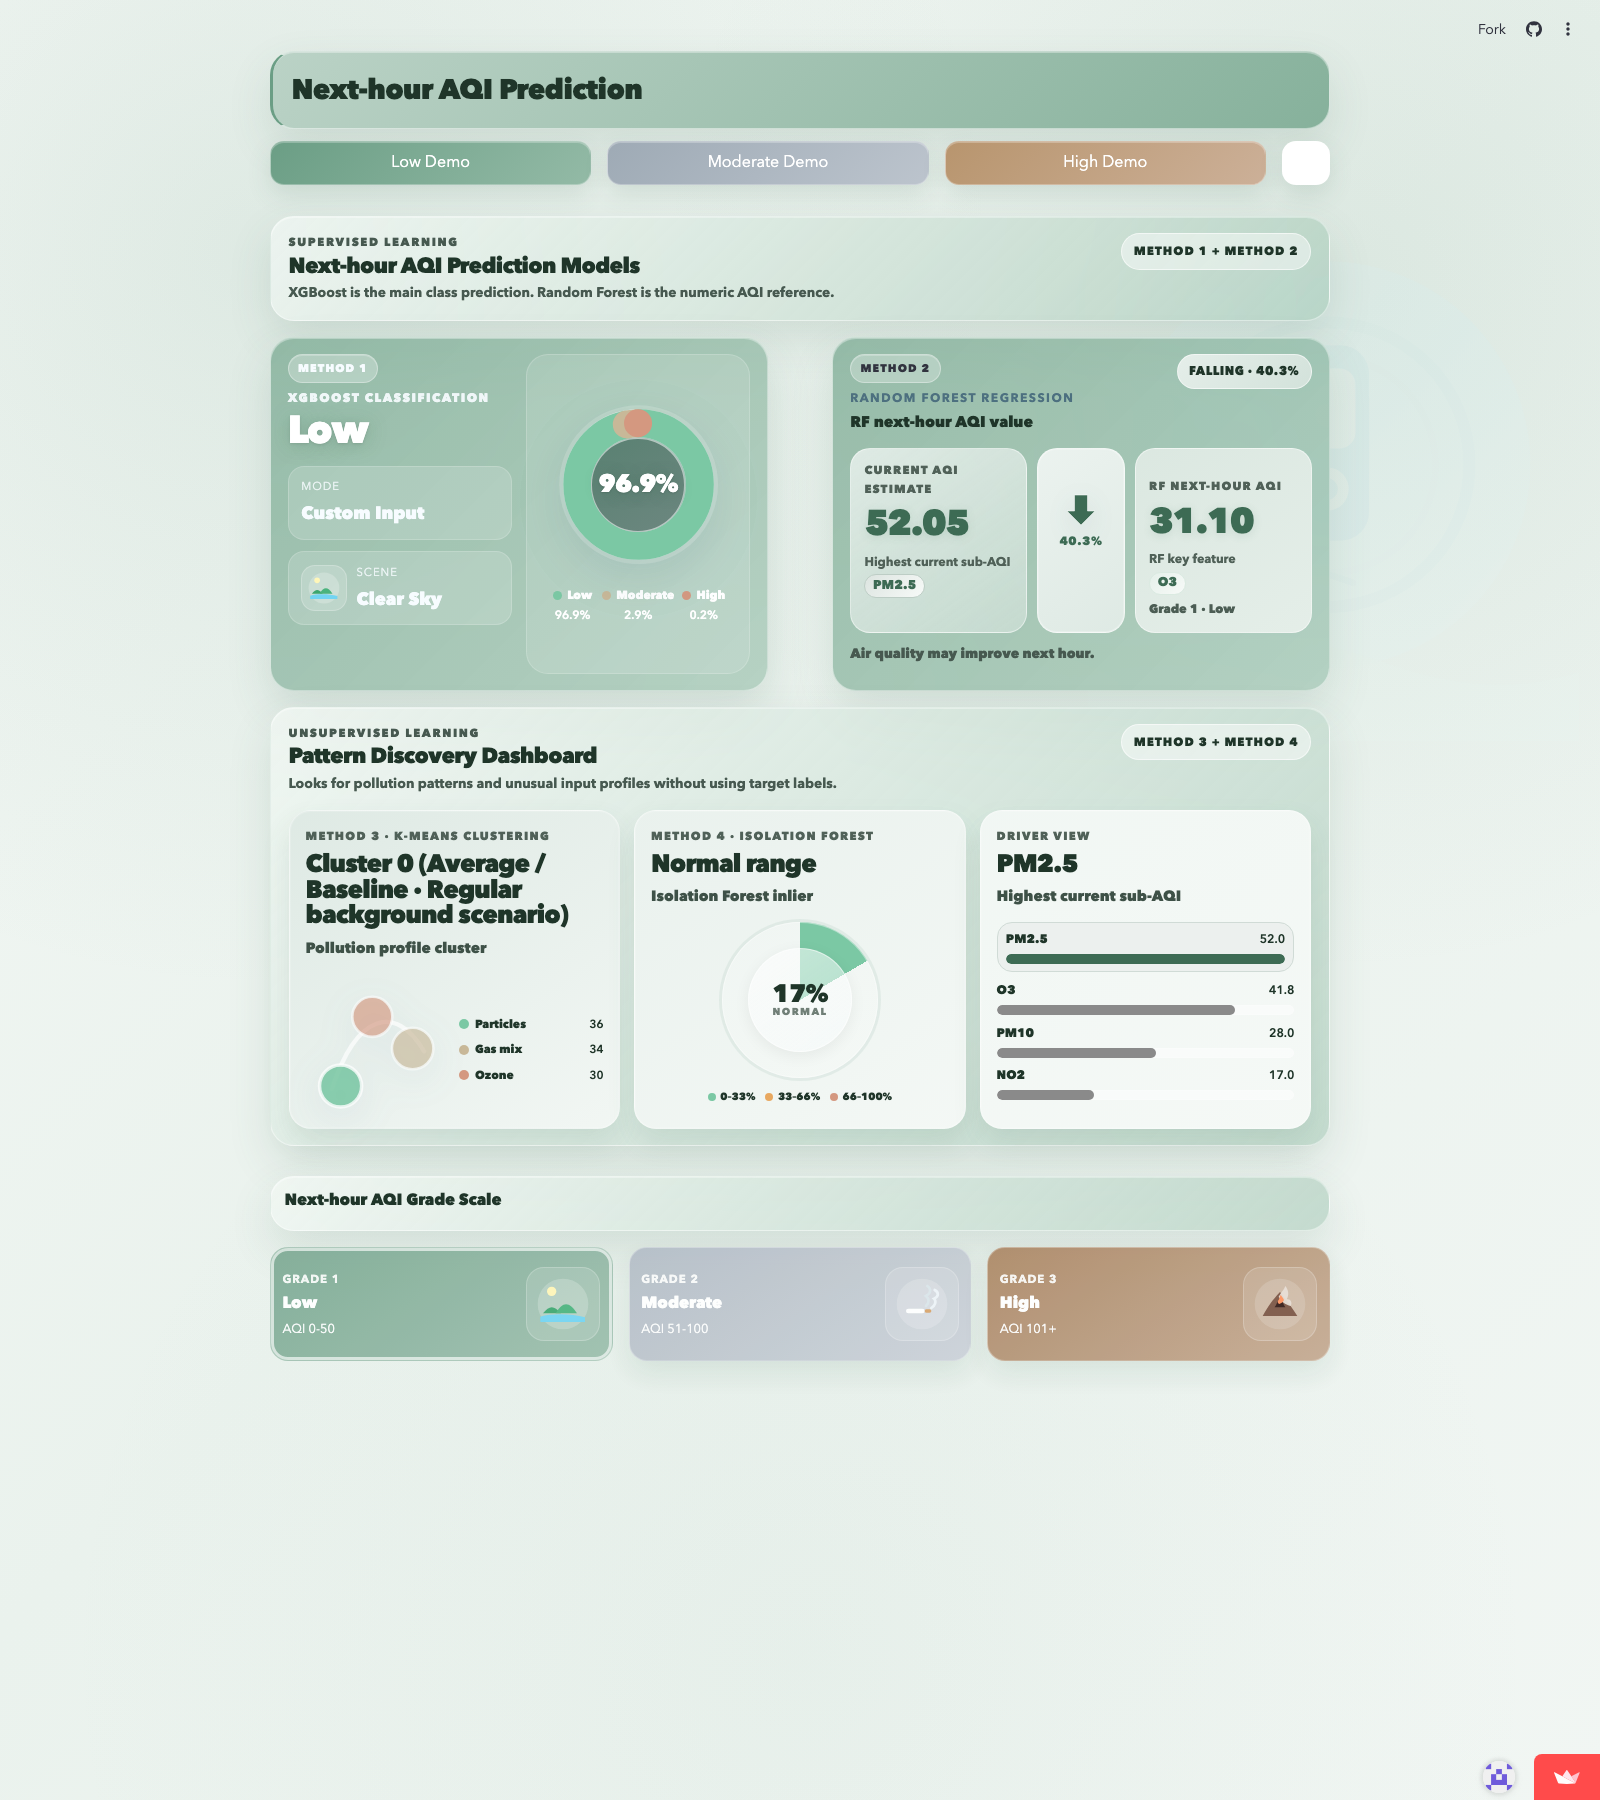
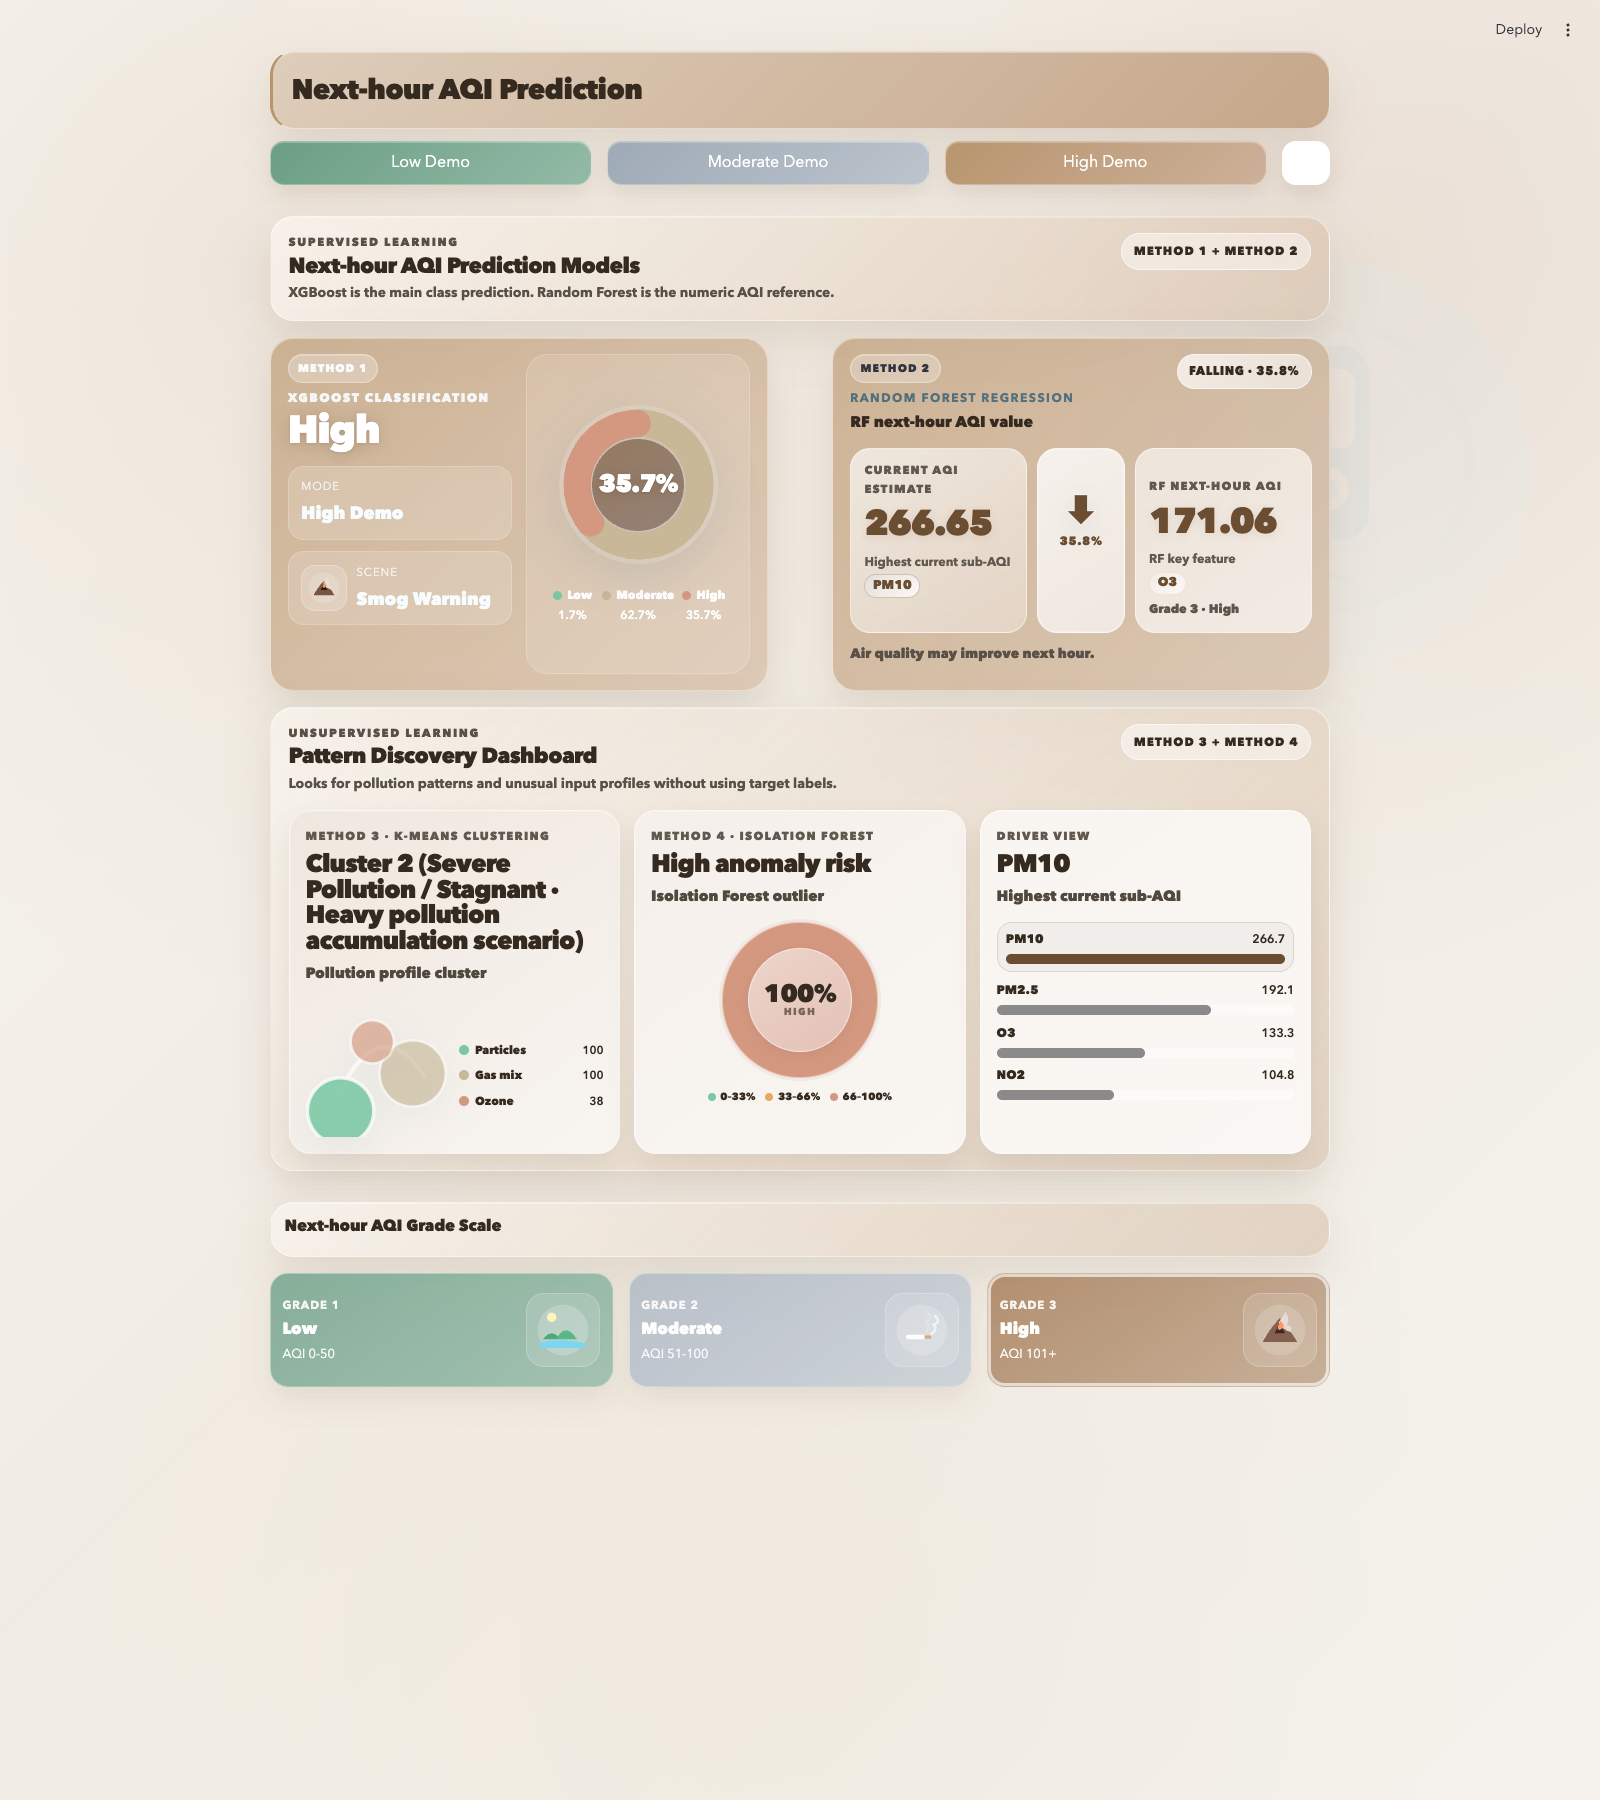
Make PM10 the dominant demo pollutant

diff --git a/streamlit_app.py b/streamlit_app.py
@@ -69,11 +69,11 @@ DEFAULT_VALUES = {
 
 LOW_DEMO_VALUES = {
     "PM2.5": 6.00,
-    "PM10": 18.00,
+    "PM10": 28.00,
     "CO": 0.20,
     "NO2": 8.00,
     "SO2": 2.00,
-    "O3": 28.00,
+    "O3": 18.00,
     "pressure": 1018.00,
     "humidity": 42.00,
     "temperature": 24.00,
@@ -83,11 +83,11 @@ LOW_DEMO_VALUES = {
 
 MODERATE_DEMO_VALUES = {
     "PM2.5": 45.00,
-    "PM10": 88.00,
+    "PM10": 234.00,
     "CO": 1.20,
     "NO2": 35.00,
     "SO2": 10.00,
-    "O3": 82.00,
+    "O3": 59.44,
     "pressure": 1008.00,
     "humidity": 58.00,
     "temperature": 29.00,
@@ -97,11 +97,11 @@ MODERATE_DEMO_VALUES = {
 
 HIGH_DEMO_VALUES = {
     "PM2.5": 135.00,
-    "PM10": 220.00,
+    "PM10": 400.42,
     "CO": 4.60,
     "NO2": 120.00,
     "SO2": 68.00,
-    "O3": 168.00,
+    "O3": 79.90,
     "pressure": 998.00,
     "humidity": 80.00,
     "temperature": 36.00,
